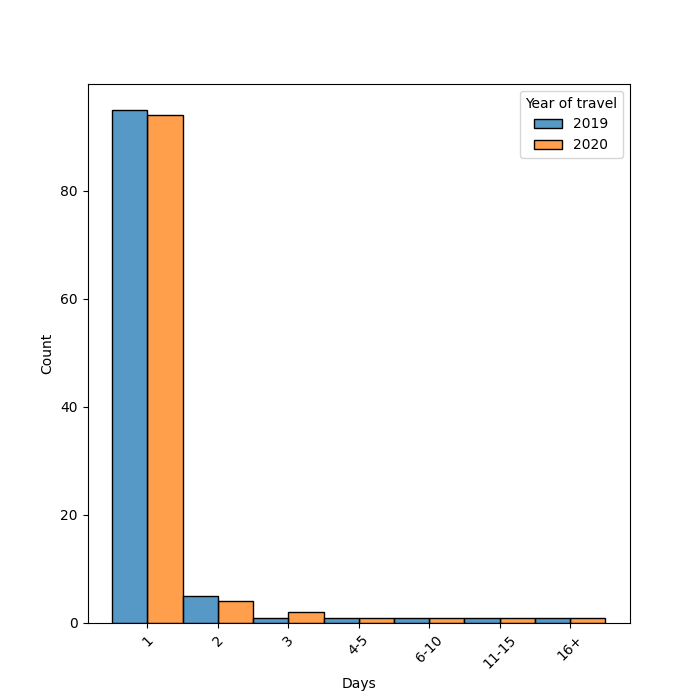
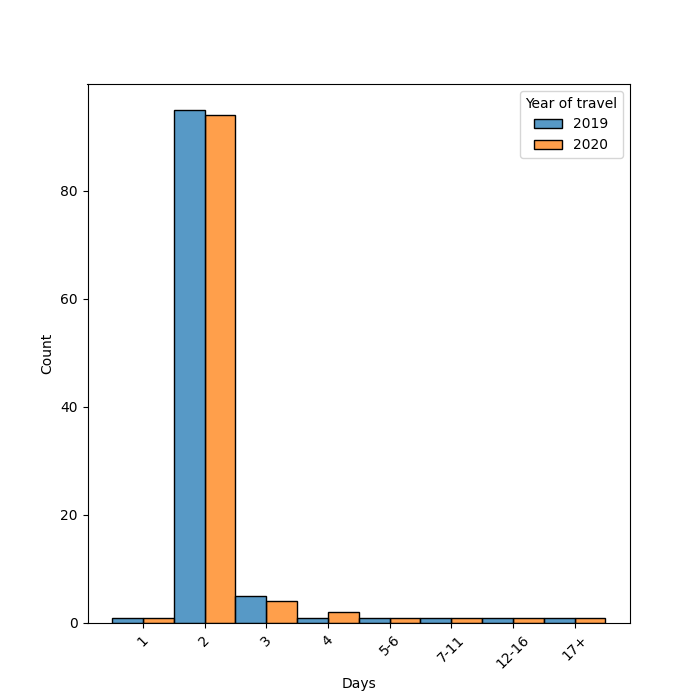
Spider net

Changed region(s): [[0.15, 0.15, 0.69, 0.96], [0.69, 0.87, 0.78, 0.96], [0.78, 0.9, 0.84, 0.96]]

diff --git a/masters/analyser/spider_net/spider_net.py b/masters/analyser/spider_net/spider_net.py
@@ -1,7 +1,15 @@
 # Libraries
+import math
+
 import matplotlib.pyplot as plt
 import pandas as pd
 from math import pi
+import seaborn as sns
+import matplotlib.pyplot as plt
+import pandas as pd
+
+from masters.data_managers.utils import database_utils
+
 
 # TODO relativni graf
 # -- 2020
@@ -25,19 +33,100 @@ from math import pi
 # -- Outdoor Activities,134
 # -- Traveller Resources,116
 # Set data
-sum2019 = 0 + 0 + 498 + 868 + 251 + 99 + 134 + 168
-sum2020 = 0 + 0 + 124 + 115 + 65 + 45 + 35 + 26
-df = pd.DataFrame({
-    'group': ['2019', '2020'],
-    # 'Sights & Landmarks': [6072 / sum2019, 830 / sum2020],
-    # 'Nature & Parks': [4585 / sum2019, 662 / sum2020],
-    'Food & Drink': [498 / sum2019, 124 / sum2020],
-    'Museums': [868 / sum2019, 115 / sum2020],
-    'Spas & Wellness': [251 / sum2019, 65 / sum2020],
-    'Fun & Games': [99 / sum2019, 45 / sum2020],
-    'Outdoor Activities': [134 / sum2019, 35 / sum2020],
-    'Shopping': [168 / sum2019, 26 / sum2020]
-})
+
+
+def get_monthly_visits(country, year_from, year_to, year):
+    sql = """
+        select attraction_name, attraction_url, attraction_type, attraction_rate, review_location_type, count(attraction_url) as visits 
+        from provinces
+            join locations l on provinces.province_url = l.attraction_parent_url
+            join reviews r on l.attraction_url = r.parent_url
+        where review_date > {year_from}
+            and review_date < {year_to}
+        group by attraction_type
+       --order by visits desc
+""".format(country=country, year_from=year_from, year_to=year_to)
+    connection = database_utils.create_connection("../../data/databases/slo_aus_ita_hun_cro_updated.db")
+    data = database_utils.get_data(connection, sql)
+    month_arr = []
+    type_arr = []
+    for e in data:
+        month_arr.append((e[2], e[5]))
+        type_arr.append(year)
+    return month_arr, type_arr
+
+print("1")
+month_arr, type_arr = get_monthly_visits("all", 20190100, 20200100, "2019")
+print("2")
+m, t = get_monthly_visits("all", 20200200, 20210100, "2020")
+print("3")
+data = {}
+data['group'] = ['2019', '2020']
+
+filt = ["None",
+        "Other",
+        "Nightlife",
+        "Sights & Landmarks",
+        "Boat Tours & Water Sports"]
+
+for e in month_arr:
+    if e[0] not in filt:
+        data[e[0]] = [e[1], 0]
+
+for e in m:
+    if e[0] not in filt:
+        if e[0] in data:
+            data[e[0]][1] = e[1]
+        else:
+            data[e[0]] = [0, e[1]]
+
+sum1 = 0
+sum2 = 0
+for k, v in data.items():
+    if "group" in k:
+        continue
+    sum1 += v[0]
+    sum2 += v[1]
+
+for k, v in data.items():
+    if "group" in k:
+        continue
+    s1 = math.log2(sum1)
+    s2 = math.log2(sum2)
+    v1 = math.log2(v[0] + 1)
+    v2 = math.log2(v[1] + 1)
+    r1 = math.ceil((v1 * 100) / s1)
+    r2 = math.ceil((v2 * 100) / s2)
+    relative1 = r1
+    relative2 = r2
+    relative1 = math.log2(math.ceil(v[0] * 100 / sum1) + 1)
+    relative2 = math.log2(math.ceil(v[1] * 100 / sum2) + 1)
+    data[k] = [relative1, relative2]
+
+order = {'group': ['2019', '2020'],
+         "Transportation": [],
+         "Museums": [],
+         "Events": [],
+         "Concerts & Shows": [],
+         "Casinos & Gambling": [],
+         "Shopping": [],
+         "Zoos & Aquariums": [],
+         "Classes & Workshops": [],
+         "Traveller Resources": [],
+         "Fun & Games": [],
+         "Spas & Wellness": [],
+         "Tours": [],
+         "Water & Amusement Parks": [],
+        # "Sights & Landmarks": [],
+         "Outdoor Activities": [],
+         "Nature & Parks": [],
+        # "Boat Tours & Water Sports": [],
+         "Food & Drink": []}
+for k, v in order.items():
+    if k not in data:
+        data[k] = [0, 0]
+    order[k] = data[k]
+df = pd.DataFrame(order)
 
 # ------- PART 1: Create background
 
@@ -61,8 +150,8 @@ plt.xticks(angles[:-1], categories)
 
 # Draw ylabels
 ax.set_rlabel_position(0)
-plt.yticks([0.1, 0.3, 0.5], ["10%", "30%", "50%"], color="grey", size=7)
-plt.ylim(0, 0.5)
+plt.yticks([0.5, 2.5, 6], ["5%", "10%", "30%"], color="grey", size=7)
+plt.ylim(0, 6)
 
 # ------- PART 2: Add plots
 
@@ -82,6 +171,7 @@ ax.plot(angles, values, linewidth=1, linestyle='solid', label="2020")
 ax.fill(angles, values, 'r', alpha=0.1)
 
 # Add legend
-plt.legend(loc='upper right', bbox_to_anchor=(0.1, 0.1))
-
+plt.xticks(rotation=45)
+plt.legend(loc='upper right', bbox_to_anchor=(0.05, 0.05))
+plt.savefig(f'spider_net.png'.format())
 plt.show()

diff --git a/masters/analyser/kilometers/trip_length.py b/masters/analyser/kilometers/trip_length.py
@@ -93,39 +93,43 @@ order by user_id, cast(review_id as INTEGER) asc
     # 1 Day, 2 Days, 3 Days, 4-5 Days, 6-10 Days, 11-15 Days, 16+ Days
     title_arr = []
     days_arr = []
-    a, b, c, d, e, f, g = 2, 2, 2, 2, 2, 2, 2
+    k, a, b, c, d, e, f, g = 2, 2, 2, 2, 2, 2, 2, 2
     trips = sorted(trips)
     for lenght in trips:
-        if lenght < 2:
+        if lenght < 1:
             title_arr.append("1")
+            days_arr.append("Trip time")
+            k += 1
+        elif 1 <= lenght < 2:
+            title_arr.append("2")
             days_arr.append("Trip time")
             a += 1
         elif 1 < lenght < 3:
-            title_arr.append("2")
+            title_arr.append("3")
             days_arr.append("Trip time")
             b += 1
         elif 2 < lenght < 4:
-            title_arr.append("3")
+            title_arr.append("4")
             days_arr.append("Trip time")
             c += 1
         elif 3 < lenght < 6:
-            title_arr.append("4-5")
+            title_arr.append("5-6")
             days_arr.append("Trip time")
             d += 1
         elif 5 < lenght < 11:
-            title_arr.append("6-10")
+            title_arr.append("7-11")
             days_arr.append("Trip time")
             e += 1
         elif 10 < lenght < 16:
-            title_arr.append("11-15")
+            title_arr.append("12-16")
             days_arr.append("Trip time")
             f += 1
         elif lenght > 15:
-            title_arr.append("16+")
+            title_arr.append("17+")
             days_arr.append("Trip time")
             g += 1
 
-    all = a + b + c + d + e + f + g
+    all = a + b + c + d + e + f + g + k
 
     a = math.ceil(a / math.log10(a))
     b = math.ceil(b / math.log10(b))
@@ -134,8 +138,9 @@ order by user_id, cast(review_id as INTEGER) asc
     e = math.ceil(e / math.log10(e))
     f = math.ceil(f / math.log10(f))
     g = math.ceil(g / math.log10(g))
+    k = math.ceil(k / math.log10(k))
 
-    all = a + b + c + d + e + f + g
+    all = a + b + c + d + e + f + g + k
 
     a = math.ceil((a * 100) / all)
     b = math.ceil((b * 100) / all)
@@ -144,35 +149,39 @@ order by user_id, cast(review_id as INTEGER) asc
     e = math.ceil((e * 100) / all)
     f = math.ceil((f * 100) / all)
     g = math.ceil((g * 100) / all)
+    k = math.ceil((k * 100) / all)
 
     title_arr = []
     days_arr = []
-    for i in range(a):
+    for i in range(k):
         title_arr.append("1")
         days_arr.append(year)
-
-    for i in range(b):
+    for i in range(a):
         title_arr.append("2")
         days_arr.append(year)
 
-    for i in range(c):
+    for i in range(b):
         title_arr.append("3")
         days_arr.append(year)
 
+    for i in range(c):
+        title_arr.append("4")
+        days_arr.append(year)
+
     for i in range(d):
-        title_arr.append("4-5")
+        title_arr.append("5-6")
         days_arr.append(year)
 
     for i in range(e):
-        title_arr.append("6-10")
+        title_arr.append("7-11")
         days_arr.append(year)
 
     for i in range(f):
-        title_arr.append("11-15")
+        title_arr.append("12-16")
         days_arr.append(year)
 
     for i in range(g):
-        title_arr.append("16+")
+        title_arr.append("17+")
         days_arr.append(year)
 
     f, axes = plt.subplots(1, 1, figsize=(7, 7), sharex=True)
